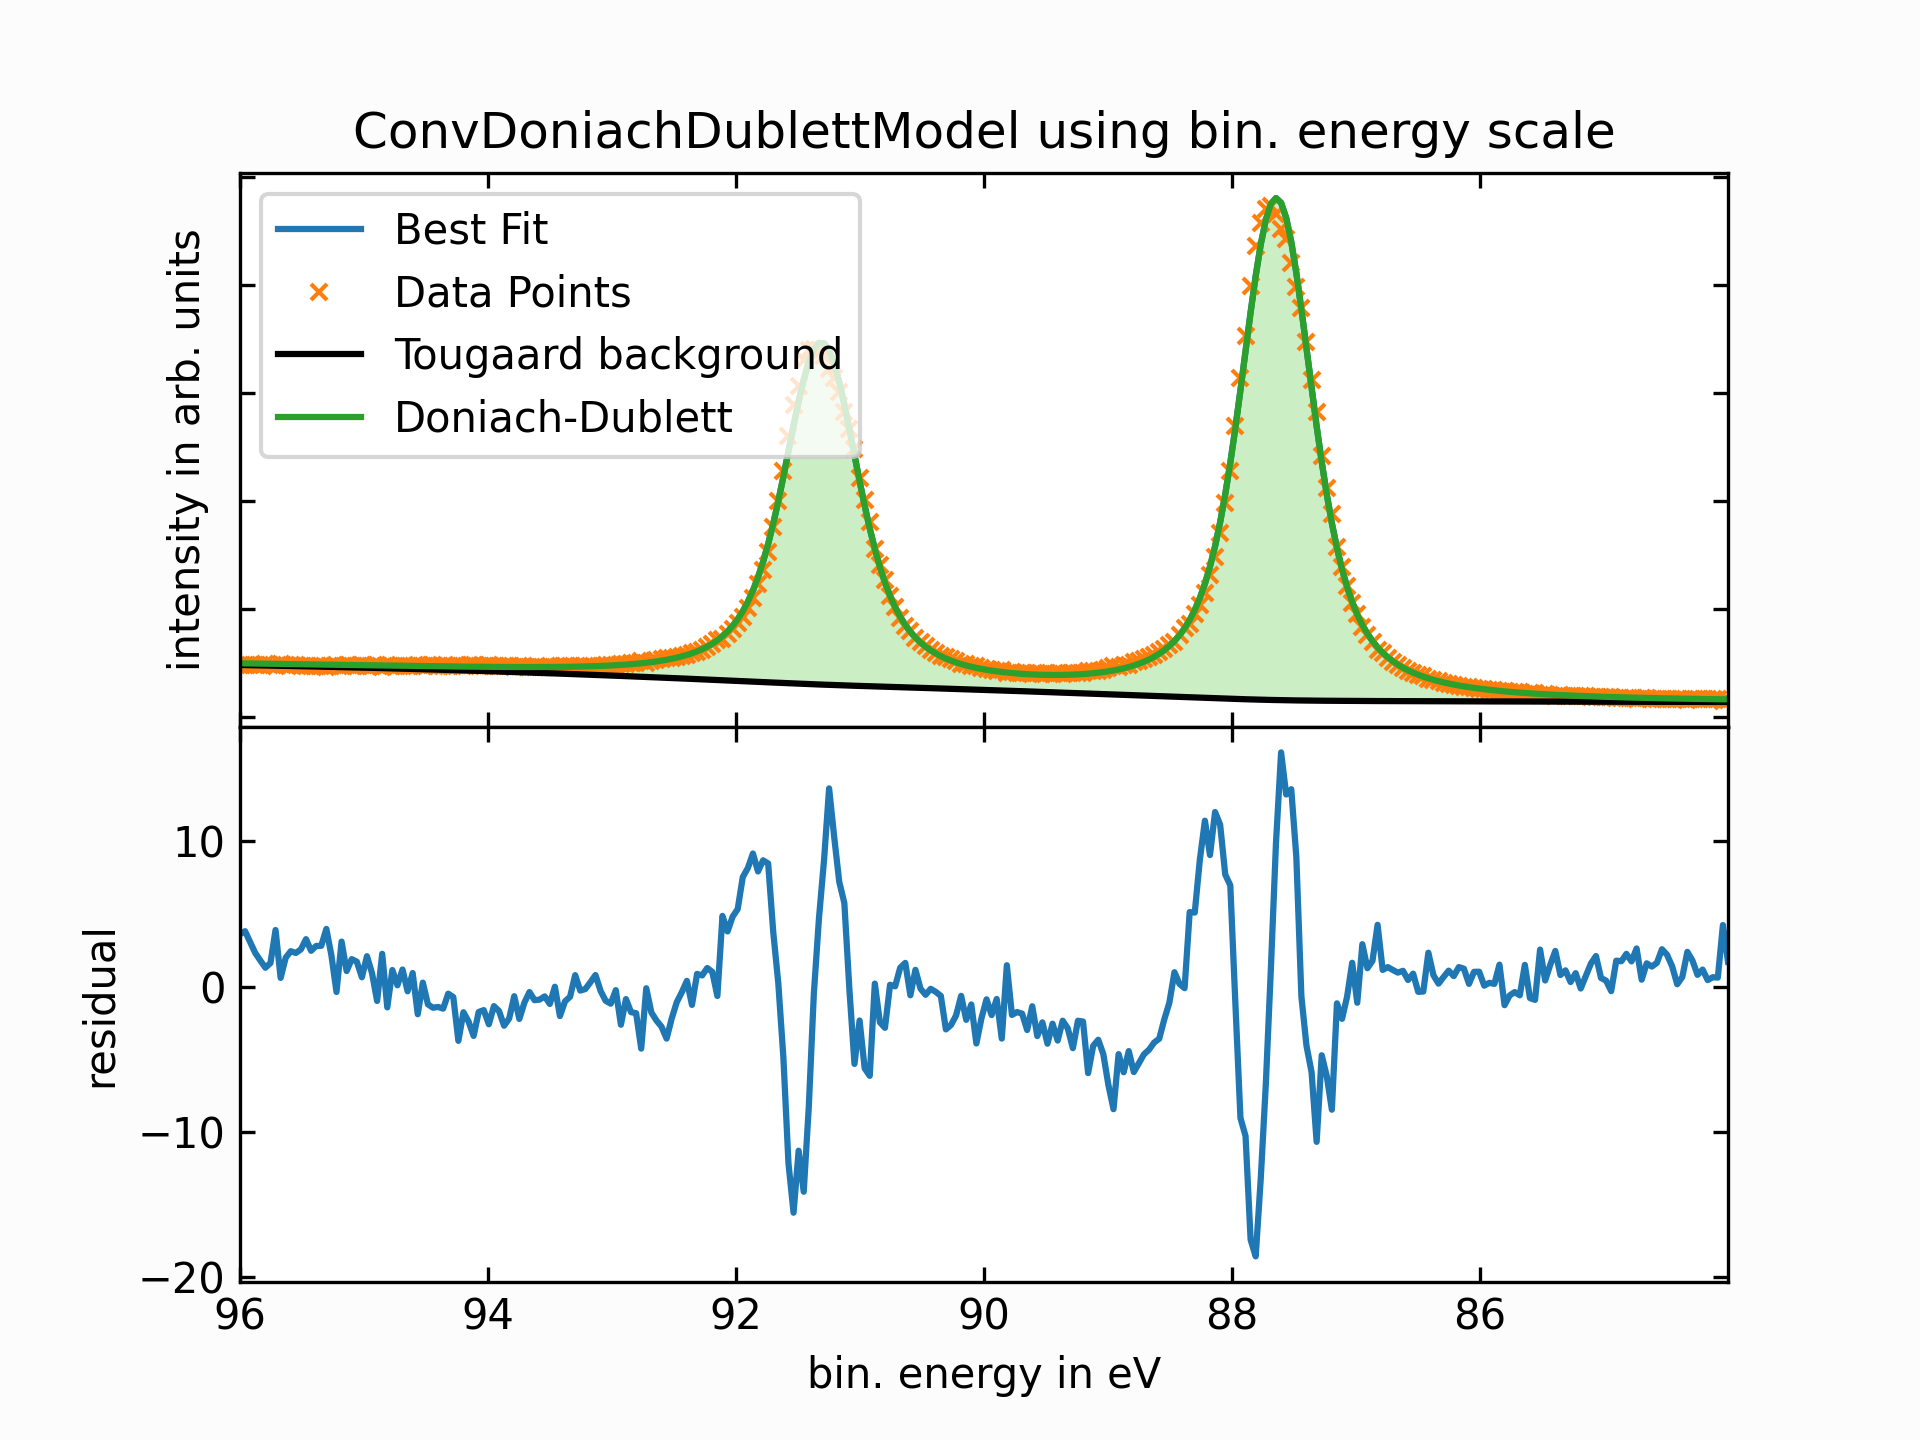
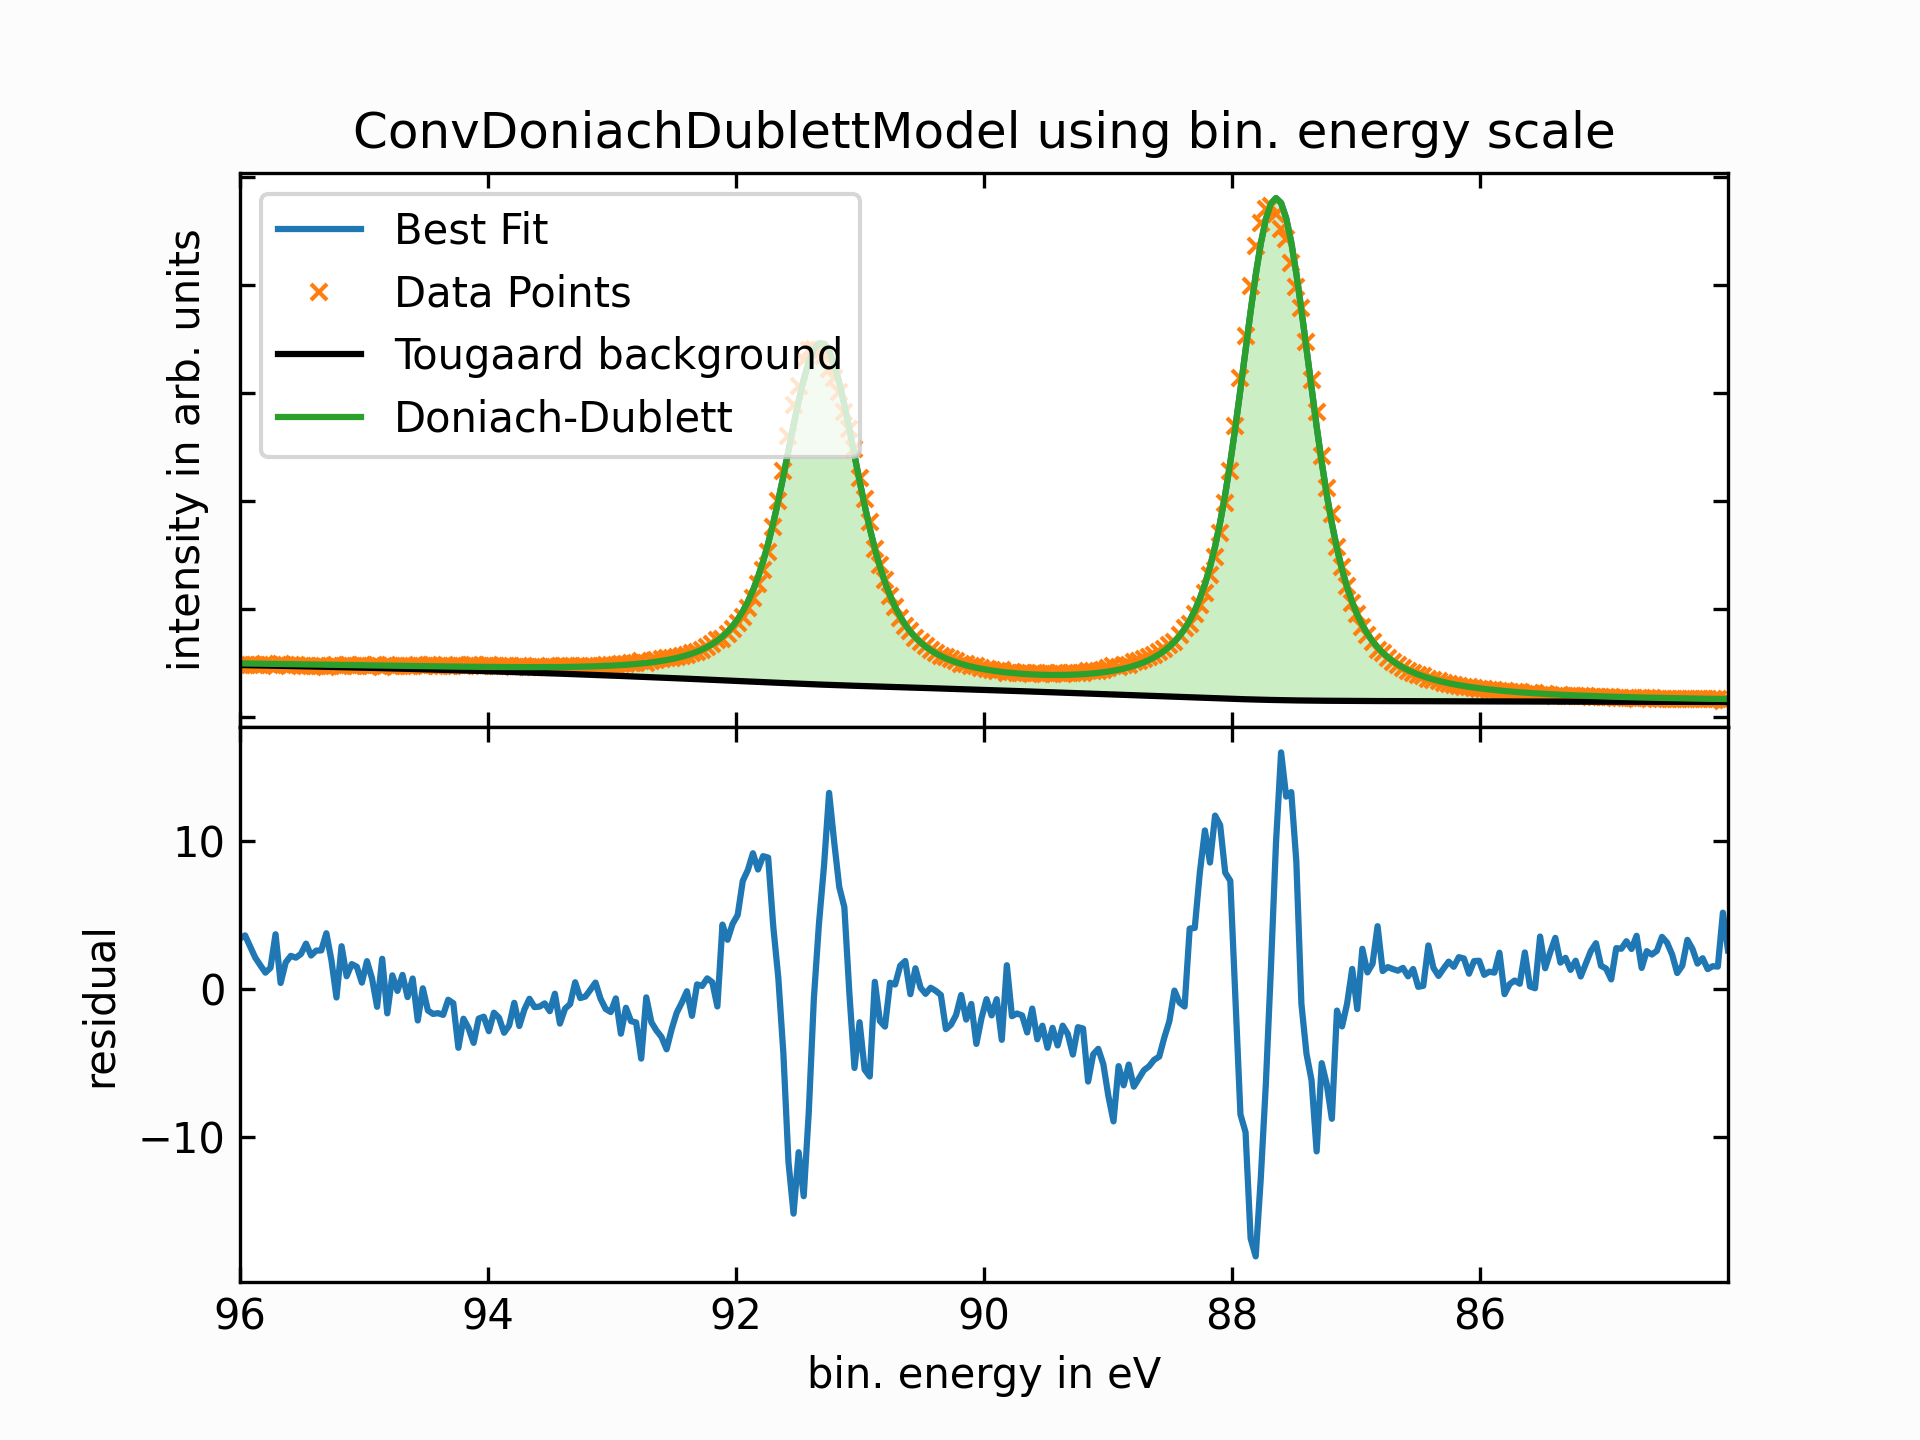
modified the dublett-function, so that the SOC parameter is always used as absolute value and gives the absolute splitting distance in eV between two peaks of a dublett, independent of the used energy scale

diff --git a/src/lmfitxps/lineshapes.py b/src/lmfitxps/lineshapes.py
@@ -17,7 +17,7 @@ def dublett(x, amplitude, sigma, gamma, gaussian_sigma, center, soc, height_rati
     Parameters
     ----------
     x: array-like
-        Array containing the energy of the spectrum to fit
+        Array containing the energy of the spectrum to fit. Works for both, kinetic+binding energy scaled data.
     amplitude: float
         factor used to scale the calculated convolution to the measured spectrum. This factor is used as the amplitude
         of the Doniach profile.
@@ -31,7 +31,8 @@ def dublett(x, amplitude, sigma, gamma, gaussian_sigma, center, soc, height_rati
         position of the maximum of the measured spectrum
     soc: float
         distance of the second-highest peak (higher-bound-orbital) of the spectrum in relation to the maximum of the
-        spectrum (the lower-bound orbital)
+        spectrum (the lower-bound orbital). Given in absolute values, the model function automatically detects if
+        binding or kinetic energy scale is used.
     height_ratio: float
         height ratio of the second-highest peak (higher-bound-orbital) of the spectrum in relation to the maximum of
         the spectrum (the lower-bound orbital)
@@ -43,13 +44,15 @@ def dublett(x, amplitude, sigma, gamma, gaussian_sigma, center, soc, height_rati
     array-type
         convolution of a doniach dublett and a gaussian profile
     """
-    is_binding_energy= x[-1] < x[0]
+    is_binding_energy = x[-1] < x[0]
+    second_center = center + soc if is_binding_energy else center - soc
+
     conv_temp = fft_convolve(
-            doniach(x, amplitude=1, center=center, sigma=sigma, gamma=gamma) + doniach(x, height_ratio, center - soc,
-                                                                                       fct_coster_kronig * sigma,
-                                                                                       gamma),
-            1 / (np.sqrt(2 * np.pi) * gaussian_sigma) * gaussian(x, amplitude=1, center=np.mean(x),
-                                                                 sigma=gaussian_sigma), is_binding_energy=is_binding_energy)
+        doniach(x, amplitude=1, center=center, sigma=sigma, gamma=gamma) +
+        doniach(x, amplitude=height_ratio, center=second_center, sigma=fct_coster_kronig * sigma, gamma=gamma),
+        1 / (np.sqrt(2 * np.pi) * gaussian_sigma) * gaussian(x, amplitude=1, center=np.mean(x), sigma=gaussian_sigma),
+        is_binding_energy=is_binding_energy
+    )
     return amplitude * conv_temp / max(conv_temp)
 
 
@@ -61,7 +64,7 @@ def singlett(x, amplitude, sigma, gamma, gaussian_sigma, center):
     Parameters
     ----------
     x: array-like
-        Array containing the energy of the spectrum to fit
+        Array containing the energy of the spectrum to fit.  Works for both, kinetic+binding energy scaled data.
     amplitude: float
         factor used to scale the calculated convolution to the measured spectrum. This factor is used as
         the amplitude of the Doniach profile.
@@ -97,7 +100,7 @@ def fermi_edge(x, amplitude, center, kt, sigma):
     Parameters
     ----------
     x: array-like
-        Array containing the energy of the spectrum to fit
+        Array containing the energy of the spectrum to fit. Works for both, kinetic+binding energy scaled data.
     amplitude: float
         factor used to scale the calculated convolution to the measured spectrum. This factor is used
         as the amplitude of the Gaussian Kernel.
@@ -171,7 +174,7 @@ def fft_convolve(data, kernel, is_binding_energy=False):
     data: array-like
         1D-array containing the data to convolve
     kernel: array-like
-        1D-array which defines the kernel used for convolution
+        1D-array which defines the kernel used for convolution. If binding energy scale is used, the kernel is inverted/flipped.
     is_binding_energy: boolean
         Boolean determining type of energy scale which determines the orientation of the kernel
 

diff --git a/examples/Example_ConvGaussianDoniachDublett.py b/examples/Example_ConvGaussianDoniachDublett.py
@@ -91,9 +91,9 @@ params.add('tougaard_C_d', value=0.281, vary=False)
 params.add('tougaard_extend', value=30)
 params.add('dublett_amplitude', value=np.max(y))
 params.add('dublett_sigma', value=0.2126)
-params.add('dublett_gamma', value=0.04)
+params.add('dublett_gamma', value=0.04, min=0)
 params.add('dublett_gaussian_sigma', value=0.0892)
-params.add('dublett_center', value=92.2273)
+params.add('dublett_center', value=87.663)
 params.add('dublett_soc', value=3.67127)
 params.add('dublett_height_ratio', value=0.7)
 params.add('dublett_fct_coster_kronig', value=1.04)
